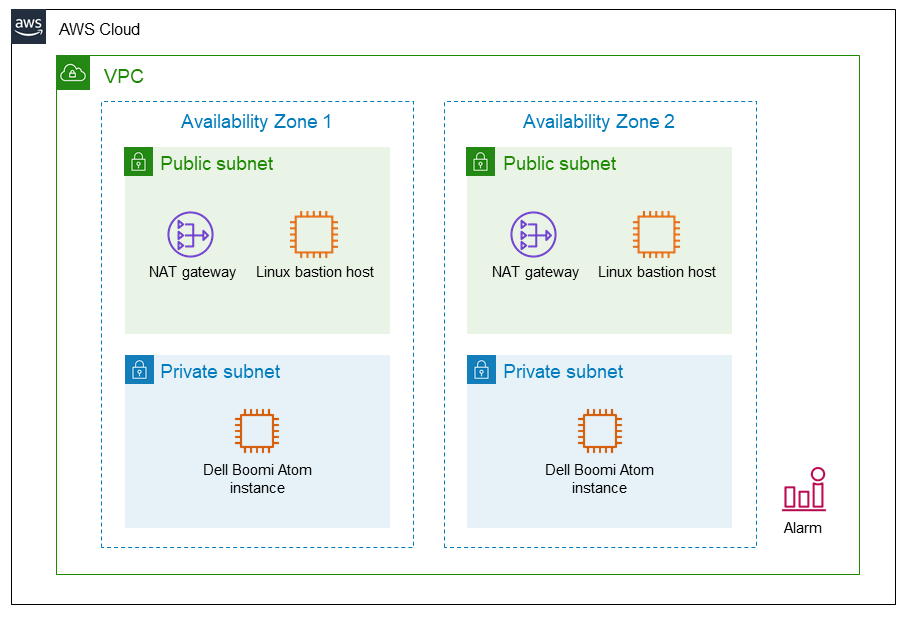
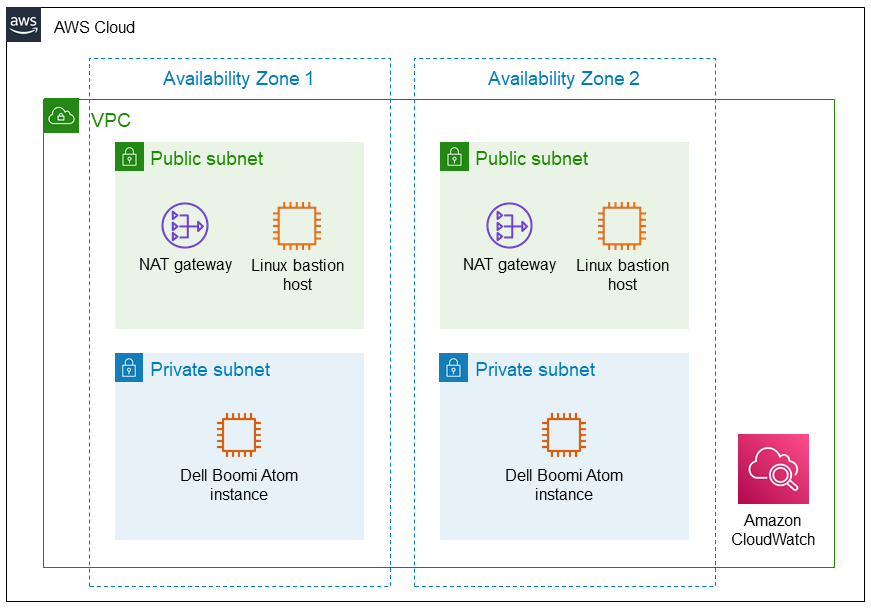
Production doc builds - 2021/03/12 19:57:39 UTC

diff --git a/index.html b/index.html
@@ -837,8 +837,9 @@ p.footer-text a{color:#d7d8d8}
 </div>
 </div>
 <div class="paragraph text-center">
-<p><strong>February 2021</strong><br>
-<em>Sean Williams, Ryan Vanderwerf, and Andrew Glenn, AWS Quick Start team</em></p>
+<p><strong>March 2021</strong><br>
+<em>Sean Williams and Ryan Vanderwerf, AWS ISV Partner Management team</em><br>
+<em>Andrew Glenn, AWS Quick Start team</em></p>
 </div>
 <div class="admonitionblock tip text-left">
 <table>
@@ -865,7 +866,7 @@ report bugs, or submit feature ideas for this Quick Start.
 <p>This Quick Start reference deployment guide walks you through the steps for deploying Dell Boomi Atom on the AWS Cloud. It does not require deep knowledge of AWS or Linux system administration.</p>
 </div>
 <div class="paragraph">
-<p>This Quick Start is for users who are looking for an integration platform as a service (iPaaS) solution hosted on the AWS Cloud. With it, you can deploy Dell Boomi Atom on AWS and administer it through the Dell Boomi Atom AtomSphere platform. There are two deployment options.</p>
+<p>This Quick Start is for users who are looking for an integration platform as a service (iPaaS) solution hosted on the AWS Cloud. With it, you can deploy Dell Boomi Atom on AWS and administer it through the Dell Boomi Atom AtomSphere platform.</p>
 </div>
 <div class="admonitionblock note">
 <table>
@@ -928,7 +929,7 @@ After you deploy the Quick Start, <a href="https://docs.aws.amazon.com/awsaccoun
 <h2 id="_architecture">Architecture</h2>
 <div class="sectionbody">
 <div class="paragraph">
-<p>Deploying this Quick Start into a new VPC with default parameters builds the following Dell Boomi Atom environment in the AWS Cloud.</p>
+<p>Deploying this Quick Start into a new virtual private cloud (VPC) with default parameters builds the following Dell Boomi Atom environment in the AWS Cloud.</p>
 </div>
 <div id="architecture1" class="imageblock">
 <div class="content">
@@ -942,31 +943,34 @@ After you deploy the Quick Start, <a href="https://docs.aws.amazon.com/awsaccoun
 <div class="ulist">
 <ul>
 <li>
-<p>A highly available architecture that spans two Availability Zones.</p>
+<p>A highly available architecture that spans two Availability Zones.*</p>
 </li>
 <li>
-<p>A VPC configured with public and private subnets according to AWS best practices, to provide you with your own virtual network on AWS.</p>
+<p>A VPC configured with public and private subnets according to AWS best practices, to provide you with your own virtual network on AWS.*</p>
 </li>
 <li>
 <p>In the public subnets:</p>
 <div class="ulist">
 <ul>
 <li>
-<p>A managed network address translation (NAT) gateway to allow outbound internet access for resources in the private subnets.</p>
+<p>A managed network address translation (NAT) gateway to allow outbound internet access for resources in the private subnets.*</p>
 </li>
 <li>
-<p>A Linux bastion host to allow inbound Secure Shell (SSH) access to Amazon EC2 instances in public and private subnets.</p>
+<p>A Linux bastion host to allow inbound SSH (Secure Shell) access to Amazon Elastic Compute Cloud (Amazon EC2) instances in public and private subnets.*</p>
 </li>
 </ul>
 </div>
 </li>
 <li>
-<p>In the private subnets, a Dell Boomi Atom installed on an Amazon EC2 instance running Amazon Linux 2.</p>
+<p>In the private subnets, Dell Boomi Atom installed on an Amazon EC2 instance running Amazon Linux 2.</p>
 </li>
 <li>
-<p>An Amazon CloudWatch alarm for instance recovery if there is a failure.</p>
+<p>An Amazon CloudWatch alarm to monitor EC2 instances and initiate recovery actions if an instance fails.</p>
 </li>
 </ul>
+</div>
+<div class="paragraph">
+<p><span class="small">*The template that deploys the Quick Start into an existing VPC skips the components marked by asterisks and prompts you for your existing VPC configuration.</span></p>
 </div>
 <div class="admonitionblock note">
 <table>
@@ -1356,7 +1360,7 @@ If you’re deploying Dell Boomi Atom into an existing VPC, make sure that your 
 <p><strong>Q.</strong> I encountered a <strong>CREATE_FAILED</strong> error when I launched the Quick Start.</p>
 </div>
 <div class="paragraph">
-<p><strong>A.</strong> If AWS CloudFormation fails to create the stack, we recommend that you relaunch the template with <strong>Rollback on failure</strong> set to <strong>Disabled</strong>. (This setting is under <strong>Advanced</strong> in the AWS CloudFormation console, <strong>Options</strong> page.) With this setting, the stack’s state is retained and the instance is left running, so you can troubleshoot the issue. (For Windows, look at the log files in %ProgramFiles%\Amazon\EC2ConfigService and C:\cfn\log.)</p>
+<p><strong>A.</strong> If AWS CloudFormation fails to create the stack, relaunch the template with <strong>Rollback on failure</strong> set to <strong>Disabled</strong>. This setting is under <strong>Advanced</strong> in the AWS CloudFormation console on the <strong>Configure stack options</strong> page. With this setting, the stack’s state is retained, and you can troubleshoot the issue.</p>
 </div>
 <div class="admonitionblock warning">
 <table>
@@ -1365,19 +1369,19 @@ If you’re deploying Dell Boomi Atom into an existing VPC, make sure that your 
 <i class="fa icon-warning" title="Warning"></i>
 </td>
 <td class="content">
-When you set <strong>Rollback on failure</strong> to <strong>Disabled</strong>, you continue to incur AWS charges for this stack. Make sure to delete the stack when you finish troubleshooting.
+When you set <strong>Rollback on failure</strong> to <strong>Disabled</strong>, you continue to incur AWS charges for this stack. Make sure that you delete stack after troubleshooting.
 </td>
 </tr>
 </table>
 </div>
 <div class="paragraph">
-<p>For additional information, see <a href="https://docs.aws.amazon.com/AWSCloudFormation/latest/UserGuide/troubleshooting.html" target="_blank" rel="noopener">Troubleshooting AWS CloudFormation</a>.</p>
+<p>For more information, see <a href="https://docs.aws.amazon.com/AWSCloudFormation/latest/UserGuide/troubleshooting.html" target="_blank" rel="noopener">Troubleshooting AWS CloudFormation</a>.</p>
 </div>
 <div class="paragraph">
-<p><strong>Q.</strong> I encountered a size limitation error when I deployed the AWS CloudFormation templates.</p>
+<p><strong>Q.</strong> I encountered a size-limitation error when I deployed the AWS CloudFormation templates.</p>
 </div>
 <div class="paragraph">
-<p><strong>A.</strong> We recommend that you launch the Quick Start templates from the links in this guide or from another S3 bucket. If you deploy the templates from a local copy on your computer or from a location other than an S3 bucket, you might encounter template size limitations. For more information, see <a href="http://docs.aws.amazon.com/AWSCloudFormation/latest/UserGuide/cloudformation-limits.html" target="_blank" rel="noopener">AWS CloudFormation quotas</a>.</p>
+<p><strong>A.</strong> Launch the Quick Start templates from the links in this guide or from another S3 bucket. If you deploy the templates from a local copy on your computer or from a location other than an S3 bucket, you might encounter template-size limitations. For more information, see <a href="http://docs.aws.amazon.com/AWSCloudFormation/latest/UserGuide/cloudformation-limits.html" target="_blank" rel="noopener">AWS CloudFormation quotas</a>.</p>
 </div>
 </div>
 </div>
@@ -1565,19 +1569,19 @@ Region</code>, and <code>Quick Start S3 key prefix</code>. Changing these parame
 <td class="tableblock halign-left valign-top"><p class="tableblock">Quick Start S3 bucket name
 (<code>QSS3BucketName</code>)</p></td>
 <td class="tableblock halign-left valign-top"><p class="tableblock"><code>aws-quickstart</code></p></td>
-<td class="tableblock halign-left valign-top"><p class="tableblock">S3 bucket name for the Quick Start assets. This string can include numbers, lowercase letters, uppercase letters, and hyphens (-). It cannot start or end with a hyphen (-).</p></td>
+<td class="tableblock halign-left valign-top"><p class="tableblock">Name of the S3 bucket for your copy of the Quick Start assets. Keep the default name unless you are customizing the template. Changing the name updates code references to point to a new Quick Start location. This name can include numbers, lowercase letters, uppercase letters, and hyphens, but do not start or end with a hyphen (-). See <a href="https://aws-quickstart.github.io/option1.html" class="bare">https://aws-quickstart.github.io/option1.html</a>.</p></td>
 </tr>
 <tr>
 <td class="tableblock halign-left valign-top"><p class="tableblock">Quick Start S3 bucket Region
 (<code>QSS3BucketRegion</code>)</p></td>
 <td class="tableblock halign-left valign-top"><p class="tableblock"><code>us-east-1</code></p></td>
-<td class="tableblock halign-left valign-top"><p class="tableblock">AWS Region where the Quick Start S3 bucket (QSS3BucketName) is hosted. When using your own bucket, you must specify this value.</p></td>
+<td class="tableblock halign-left valign-top"><p class="tableblock">AWS Region where the Quick Start S3 bucket (QSS3BucketName) is hosted. Keep the default Region unless you are customizing the template. Changing this Region updates code references to point to a new Quick Start location. When using your own bucket, specify the Region. See <a href="https://aws-quickstart.github.io/option1.html" class="bare">https://aws-quickstart.github.io/option1.html</a>.</p></td>
 </tr>
 <tr>
 <td class="tableblock halign-left valign-top"><p class="tableblock">Quick Start S3 key prefix
 (<code>QSS3KeyPrefix</code>)</p></td>
 <td class="tableblock halign-left valign-top"><p class="tableblock"><code>quickstart-boomi-atom/</code></p></td>
-<td class="tableblock halign-left valign-top"><p class="tableblock">S3 key prefix for the Quick Start assets. Quick Start key prefix can include numbers, lowercase letters, uppercase letters, hyphens (-), and forward slash (/).</p></td>
+<td class="tableblock halign-left valign-top"><p class="tableblock">S3 key prefix that is used to simulate a directory for your copy of the Quick Start assets. Keep the default prefix unless you are customizing the template. Changing this prefix updates code references to point to a new Quick Start location. This prefix can include numbers, lowercase letters, uppercase letters, hyphens (-), and forward slashes (/). End with a forward slash. See <a href="https://docs.aws.amazon.com/AmazonS3/latest/dev/UsingMetadata.html" class="bare">https://docs.aws.amazon.com/AmazonS3/latest/dev/UsingMetadata.html</a> and <a href="https://aws-quickstart.github.io/option1.html" class="bare">https://aws-quickstart.github.io/option1.html</a>.</p></td>
 </tr>
 </tbody>
 </table>
@@ -1758,10 +1762,10 @@ and to share your customizations with others.</p>
 </html>
 <!--
 repo commit:
-b583435ed7a66559d14a40c124f22708b4cf070e
+c5f613c934a251b47db446e666f3c53a53541eda
 
 submodule config:
-+16a46f1d69675a88267270dcf798e9a9257dbed3 docs/boilerplate (heads/main)
- dd78caba92ec7e31cc2d2b7b623ee53626db986a submodules/quickstart-aws-vpc (v1.0-45-gdd78cab)
- 559878955b9f97873a0b2c99aa4c3619f1cb35c1 submodules/quickstart-linux-bastion (remotes/origin/logging-14-g5598789)
+ 6786026357fa87960ee8fb7f6e4654f26b0ea232 docs/boilerplate (heads/main)
+ b9cf3d3f58fb05ef519b654dd8d129c5930f5fcf submodules/quickstart-aws-vpc (v1.0-53-gb9cf3d3)
+ 4ba01f9ff76163a0a2d8f4251edfb98b2e235669 submodules/quickstart-linux-bastion (heads/main)
 -->
